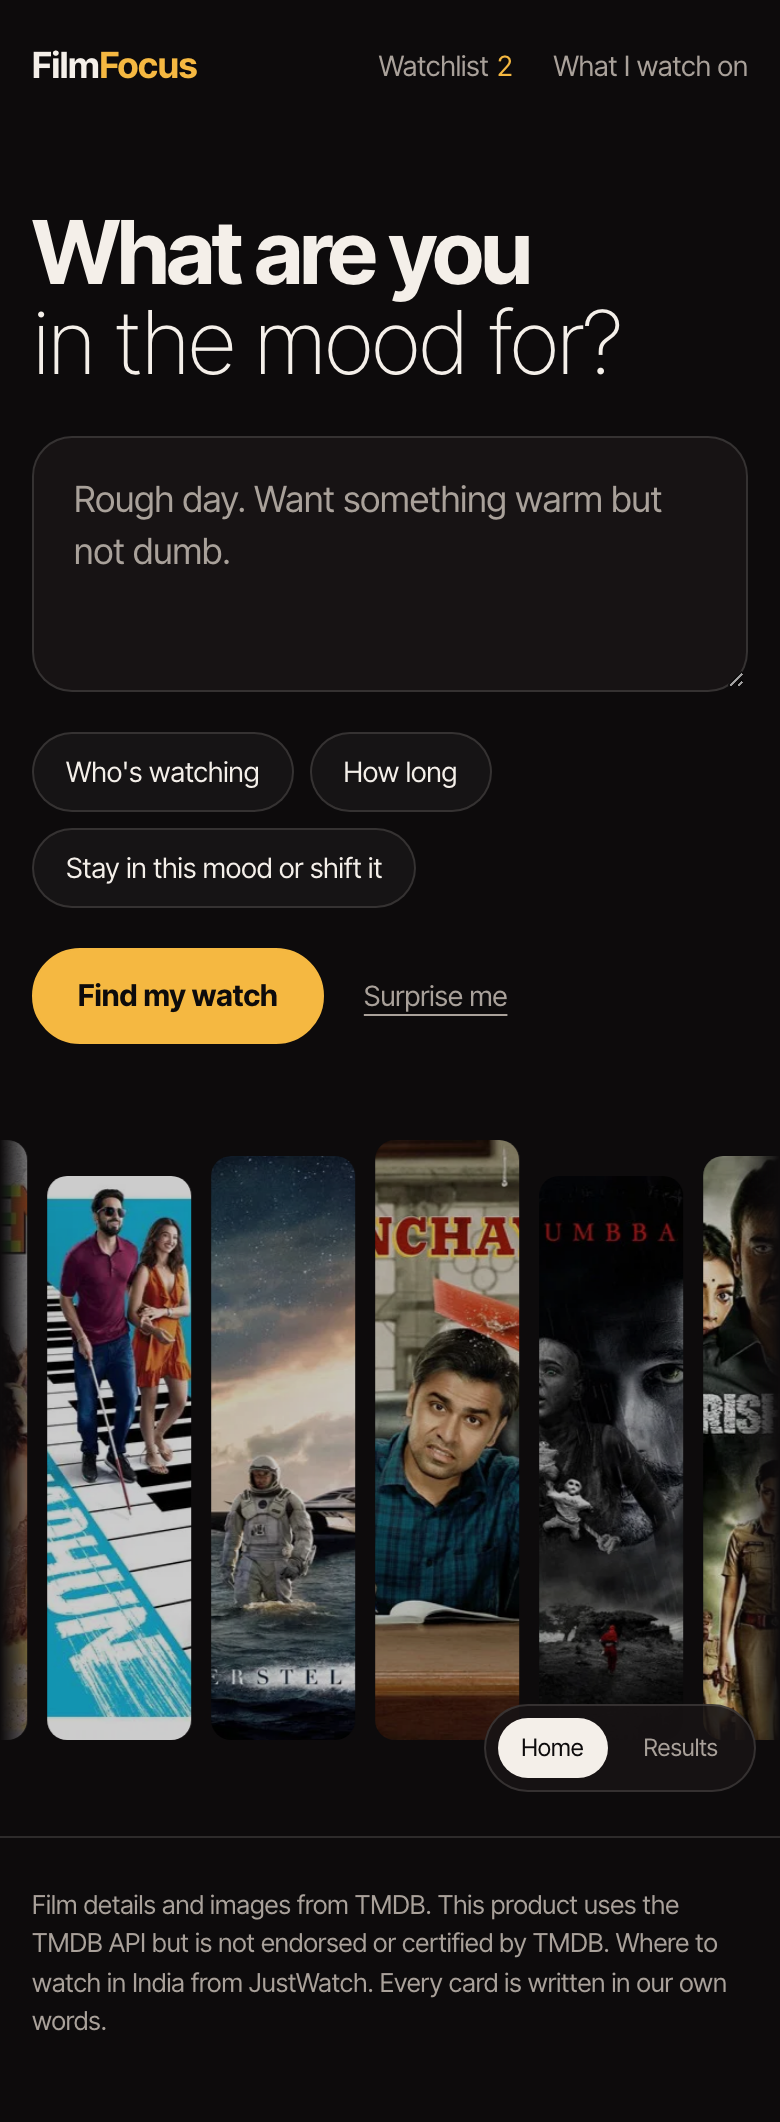
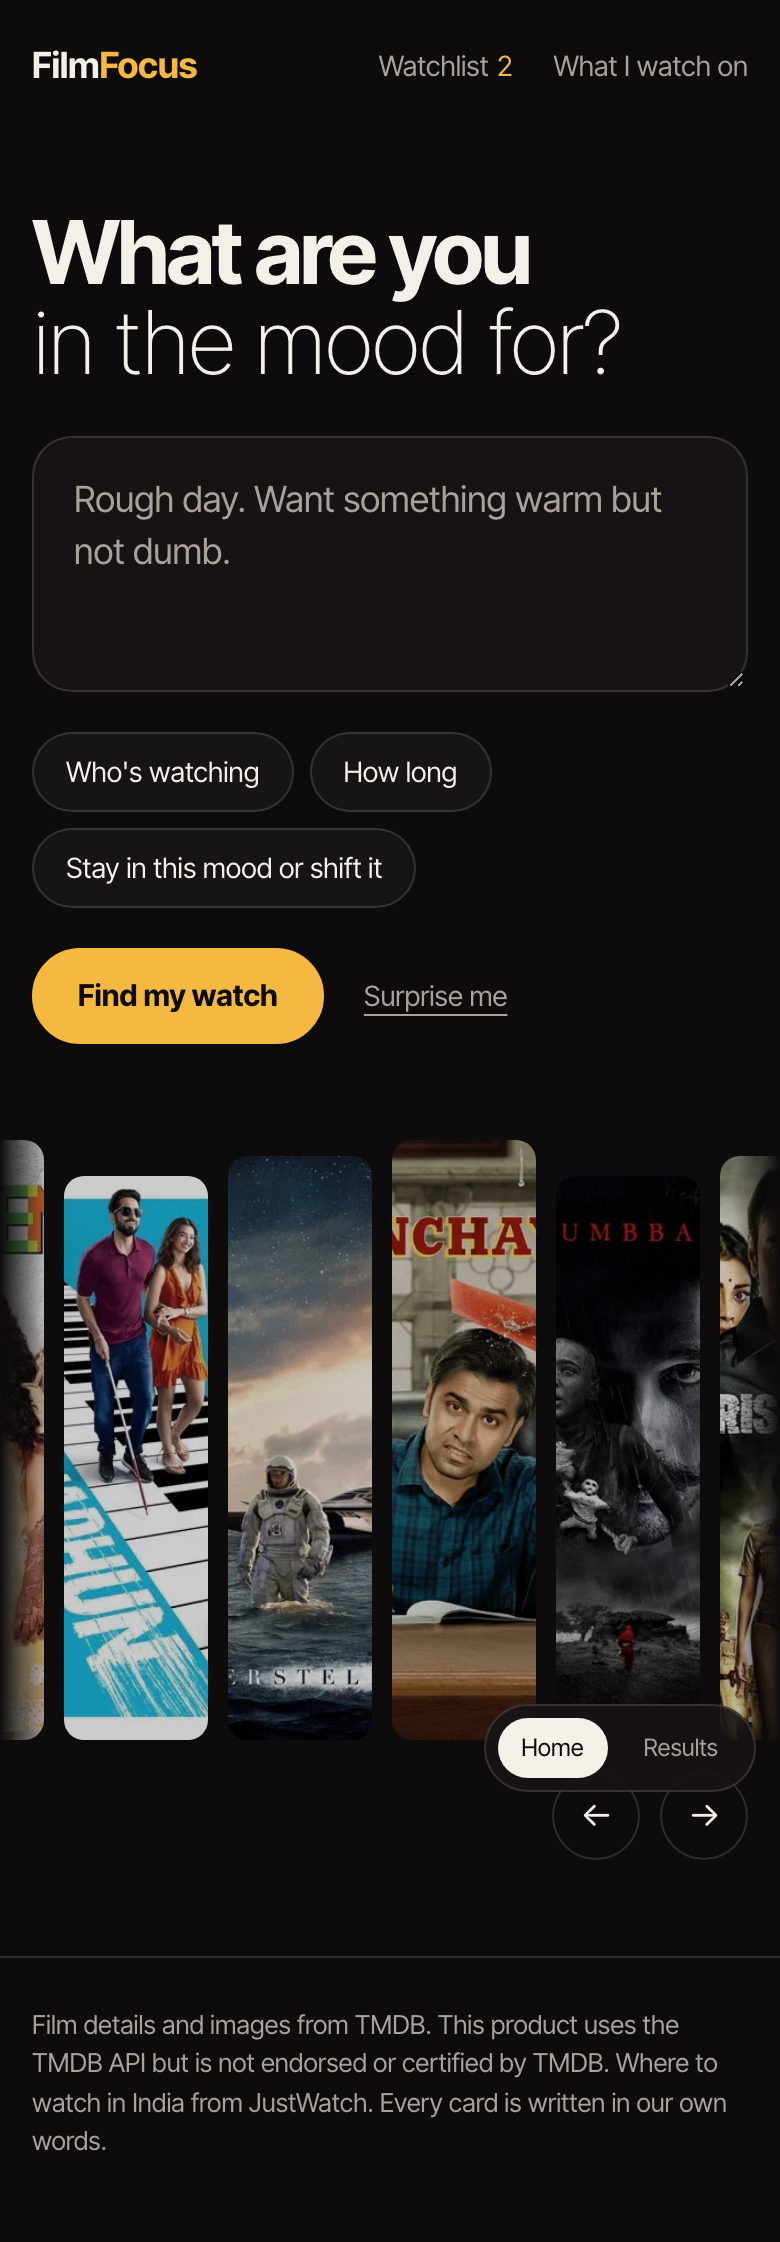
V2 mock: scrollable home shelf (drag, swipe, trackpad, arrows), still drifts when idle

diff --git a/docs/design/v2/mock.html b/docs/design/v2/mock.html
@@ -61,13 +61,13 @@
   .ask textarea::placeholder { color: var(--muted); }
   .ask .chips { display: flex; flex-wrap: wrap; gap: 8px; margin: 14px 0 20px; }
   .ask .go { display: flex; align-items: center; gap: 20px; }
-  .shelf-label { display: flex; justify-content: space-between; align-items: baseline; font-size: 14px; color: var(--muted); margin-bottom: 14px; }
-  @media (hover: none) { .shelf-label .hint { display: none; } }
-  .shelf-label b { color: var(--paper); font-weight: 500; }
-  .shelf { overflow: hidden; padding-block: 16px 48px; -webkit-mask-image: linear-gradient(90deg, transparent, #000 6%, #000 94%, transparent); mask-image: linear-gradient(90deg, transparent, #000 6%, #000 94%, transparent); }
-  .rail { display: flex; gap: 10px; width: max-content; animation: drift 90s linear infinite; }
-  .shelf:hover .rail { animation-play-state: paused; }
-  @keyframes drift { to { transform: translateX(-50%); } }
+  .shelf-wrap { position: relative; padding-block: 16px 48px; }
+  .shelf { overflow-x: auto; overflow-y: hidden; scrollbar-width: none; cursor: grab; -webkit-mask-image: linear-gradient(90deg, transparent, #000 6%, #000 94%, transparent); mask-image: linear-gradient(90deg, transparent, #000 6%, #000 94%, transparent); }
+  .shelf::-webkit-scrollbar { display: none; }
+  .shelf.dragging { cursor: grabbing; }
+  .shelf.dragging .strip { pointer-events: none; }
+  .rail { display: flex; gap: 10px; width: max-content; padding-inline: 16px; }
+  .shelf-arrows { display: flex; justify-content: flex-end; gap: 10px; margin-top: 16px; }
   .strip { position: relative; width: 72px; height: 300px; border-radius: 10px; overflow: hidden; flex: none; background: var(--night-2) center / cover; transition: width .45s cubic-bezier(.2,.7,.2,1), filter .3s; filter: saturate(.85) brightness(.8); cursor: pointer; border: 0; padding: 0; }
   .strip:nth-child(3n+2) { margin-top: 18px; height: 282px; }
   .strip:nth-child(3n) { margin-top: 8px; height: 292px; }
@@ -163,7 +163,6 @@
   .mockbar button[aria-pressed="true"] { background: var(--paper); color: var(--ink); }
 
   @media (prefers-reduced-motion: reduce) {
-    .rail { animation: none; }
     .bd, .bd.on, .anim, .strip, .pk .pimg { transition: none; transform: none; }
   }
 </style>
@@ -185,7 +184,10 @@
       <div class="go"><button class="btn primary" onclick="show('results')">Find my watch</button><button class="quiet">Surprise me</button></div>
     </div>
   </div>
-  <div class="shelf"><div class="rail" id="rail"></div></div>
+  <div class="shelf-wrap">
+    <div class="shelf" id="shelf" aria-label="Some of the titles we have cards for"><div class="rail" id="rail"></div></div>
+    <div class="wrap shelf-arrows"><button class="arr" aria-label="Scroll the shelf left" onclick="nudge(-1)">←</button><button class="arr" aria-label="Scroll the shelf right" onclick="nudge(1)">→</button></div>
+  </div>
 </main>
 
 <main id="results">
@@ -228,6 +230,36 @@ const esc = (s) => String(s).replace(/[&<>"]/g, (c) => ({ '&': '&amp;', '<': '&l
 // Home shelf: the list twice so the drift loops seamlessly.
 document.getElementById('rail').innerHTML = [...shelf, ...shelf].map((s) =>
   `<button class="strip" style="background-image:url(${IMG}w342${s.poster_path})" aria-label="${esc(s.title)}"><span>${esc(s.title)}<br><small style="color:var(--muted)">${s.year}</small></span></button>`).join('')
+
+
+// Shelf: drifts slowly on its own, and people can scroll it (trackpad, swipe, drag, or the arrows).
+// It loops: the list is there twice, and the scroll position wraps at the halfway point.
+const shelfEl = document.getElementById('shelf')
+const still = matchMedia('(prefers-reduced-motion: reduce)').matches
+let pausedUntil = 0, hovering = false
+const half = () => shelfEl.scrollWidth / 2
+const wrapAround = () => { if (shelfEl.scrollLeft >= half()) shelfEl.scrollLeft -= half(); else if (shelfEl.scrollLeft <= 0) shelfEl.scrollLeft += half() }
+const hold = (ms = 4000) => { pausedUntil = performance.now() + ms }
+let carry = 0
+function tick(t) {
+  if (!still && !hovering && t > pausedUntil && document.body.classList.contains('show-home')) {
+    carry += 0.35; const step = Math.floor(carry); carry -= step
+    if (step) { shelfEl.scrollLeft += step; wrapAround() }
+  }
+  requestAnimationFrame(tick)
+}
+shelfEl.addEventListener('mouseenter', () => { hovering = true })
+shelfEl.addEventListener('mouseleave', () => { hovering = false })
+shelfEl.addEventListener('scroll', wrapAround, { passive: true })
+shelfEl.addEventListener('touchstart', () => hold(), { passive: true })
+shelfEl.addEventListener('wheel', () => hold(), { passive: true })
+function nudge(dir) { hold(); shelfEl.scrollBy({ left: dir * shelfEl.clientWidth * 0.6, behavior: still ? 'auto' : 'smooth' }) }
+// Drag to scroll with a mouse.
+let drag = null
+shelfEl.addEventListener('pointerdown', (e) => { if (e.pointerType !== 'mouse') return; drag = { x: e.clientX, left: shelfEl.scrollLeft, moved: false } })
+addEventListener('pointermove', (e) => { if (!drag) return; const dx = e.clientX - drag.x; if (Math.abs(dx) > 4) { drag.moved = true; shelfEl.classList.add('dragging') } shelfEl.scrollLeft = drag.left - dx; hold() })
+addEventListener('pointerup', () => { drag = null; shelfEl.classList.remove('dragging') })
+requestAnimationFrame(() => { shelfEl.scrollLeft = 1; requestAnimationFrame(tick) })
 
 // Results
 document.getElementById('picks').innerHTML = picks.map((p, i) =>
